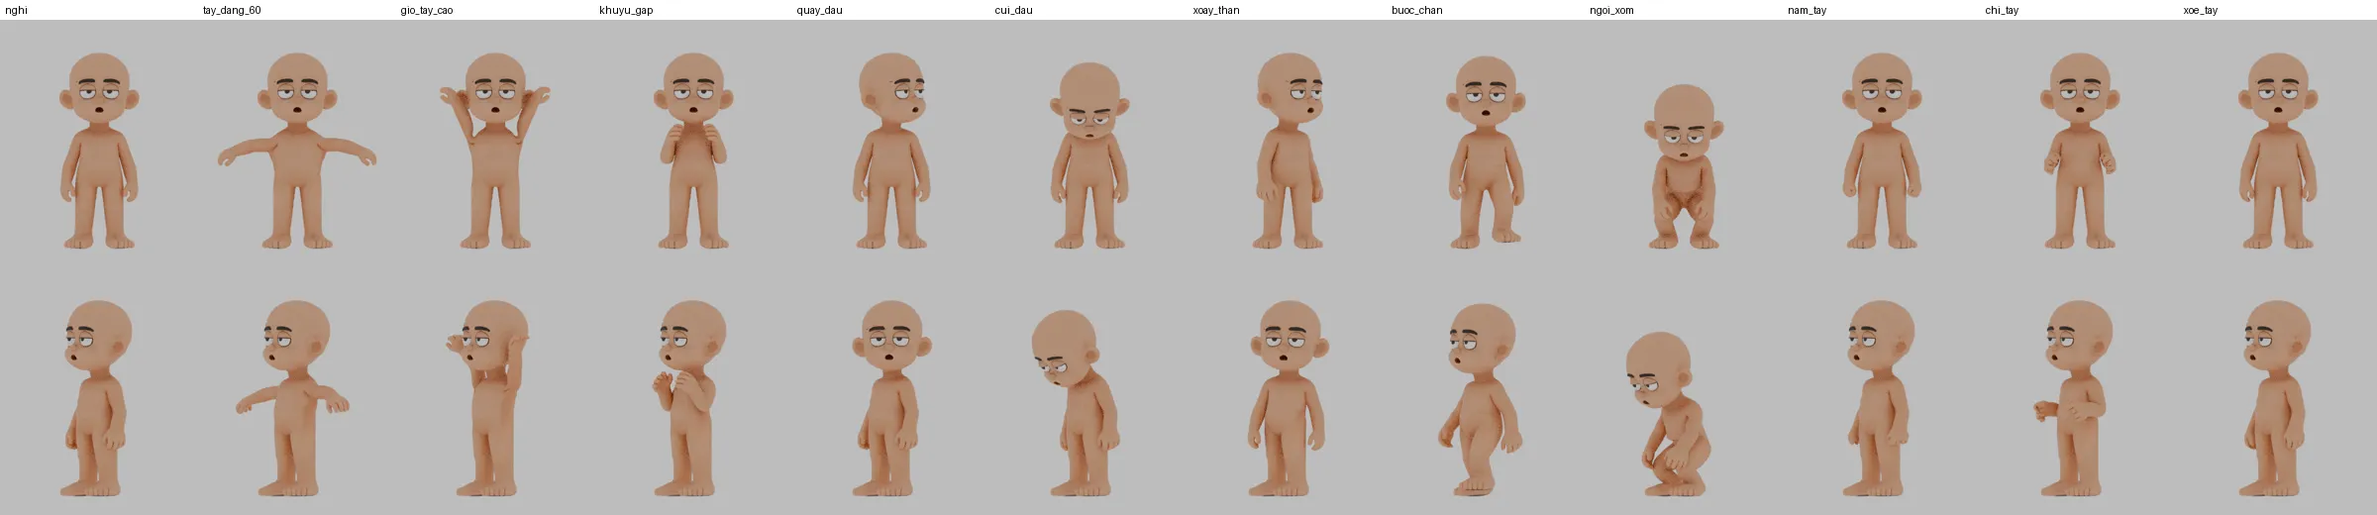
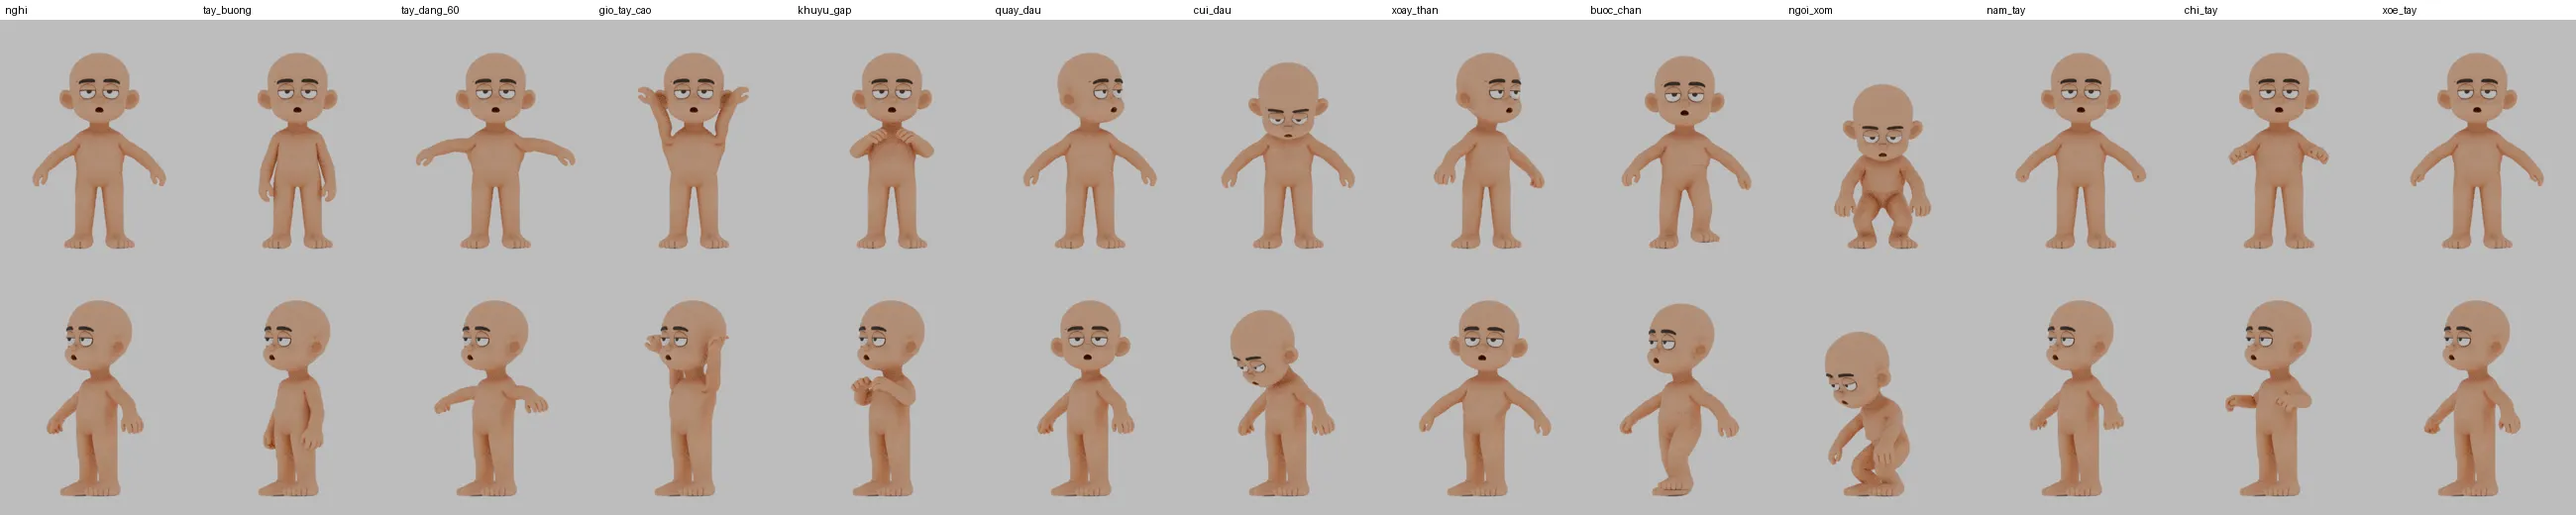
feat(nhan-vat-goc): dáng nghỉ chữ A 35° cho rig thử, giảm ép vai khi giơ tay
Claude-Session: https://claude.ai/code/session_015xtvRfLqUD2K9LfPtx8x7k

diff --git a/assets/nhan-vat-3d/nhan-vat-goc/rig-thu/rig_goc.py b/assets/nhan-vat-3d/nhan-vat-goc/rig-thu/rig_goc.py
@@ -39,6 +39,8 @@ ARM_CUT = (0.17, 0.86)  # loang từ đầu ngón tay, không qua |x|<0,17 hay z
 FINGER_Y = {'index': -0.113, 'middle': -0.061, 'ring': -0.022, 'pinky': 0.019}
 FINGER_SPLIT = (0.42, 0.32, 0.26)      # tỉ lệ chiều dài 3 đốt (gốc → đầu ngón)
 FINGER_CURL = {'index': (50, 70, 45), 'middle': (50, 70, 45), 'ring': (50, 70, 45), 'pinky': (50, 70, 45), 'thumb': (12, 30, 40)}   # độ gập khi nam = 1
+A_DEG = 0.0
+AP = np.eye(4)                          # khung dáng chữ A → khung tay buông (bên L); đơn vị nếu không chuyển dáng
 CH = {}                                 # tên ngón → 4 điểm (bên L): gốc, khớp 1, khớp 2, đầu ngón
 
 
@@ -245,10 +247,11 @@ def finger_weights(W, co, I, arm_reg, sigma=0.004, blend=0.007):
     (exp(-(d/sigma)^2)); trong một ngón chia cho 3 đốt theo vị trí dọc ngón (pha ±blend ở khớp); phía trên gốc ngón thuộc hand."""
     sm = lambda e0, e1, t: (lambda u: u * u * (3 - 2 * u))(np.clip((t - e0) / (e1 - e0), 0, 1))
     for k, sx in (('L', 1), ('R', -1)):
-        H = arm_reg & (sx * co[:, 0] > 0.17) & (co[:, 2] < 0.50)
-        P = co[H] * np.array([sx, 1, 1]); n = len(P); Wn = np.zeros((n, W.shape[1]), np.float32)
+        Uc = (co * np.array([sx, 1, 1])) @ AP[:3, :3].T + AP[:3, 3]      # về khung tay buông (đo ngón) nếu đã chuyển dáng chữ A
+        H = arm_reg & (sx * co[:, 0] > 0.0) & (Uc[:, 0] > 0.17) & (Uc[:, 2] < 0.50)
+        P = Uc[H]; n = len(P); Wn = np.zeros((n, W.shape[1]), np.float32)
         D = []; S0 = []; U = []
-        for nm, pts in CH.items():
+        for nm, pts in (CH0 or CH).items():
             Q = np.array([p[:] for p in pts]); seg = np.diff(Q, axis=0); ln = np.linalg.norm(seg, axis=1); cum = np.r_[0, np.cumsum(ln)]
             dmin = np.full(n, 9.0); u = np.zeros(n)
             for j in range(3):
@@ -264,12 +267,17 @@ def finger_weights(W, co, I, arm_reg, sigma=0.004, blend=0.007):
             for i in range(3):
                 Wn[:, I[f'{nm}{i + 1}.{k}']] += A[c] * inside * wb[i]
         Wn[:, I[f'hand.{k}']] += 1 - Wn.sum(1)
-        al = sm(0.50, 0.475, co[H, 2])[:, None]
+        al = sm(0.50, 0.475, P[:, 2])[:, None]
         W[H] = (1 - al) * W[H] + al * Wn
     return W
 
 
+CH0 = {}              # đường tâm ngón ở khung tay buông (dùng cho trọng số ngón sau khi đổi dáng chữ A)
+ARM_FIXED = None      # vùng tay tính trên lưới tay buông, dùng lại sau khi đổi dáng chữ A (chỉ số đỉnh giữ nguyên)
+
+
 def arm_region(co, ea, eb):
+    if ARM_FIXED is not None: return ARM_FIXED.copy()
     x, z = co[:, 0], co[:, 2]; keep = ~((np.abs(x) < ARM_CUT[0]) | (z > ARM_CUT[1])); A = np.zeros(len(co), bool)
     for s in (1, -1):
         A[np.argmin(np.where((s * x > 0.2) & (z > 0.3), z, 9))] = True
@@ -340,8 +348,9 @@ def clean_weights(body):
 # ---- dáng thử ----
 POSES = {
     'nghi': {},
-    'tay_dang_60': {'upper_arm.L': ('Y', 0, 'Z', 60)},
-    'gio_tay_cao': {'upper_arm.L': ('Y', 0, 'Z', 140)},
+    'tay_buong': 'down',
+    'tay_dang_60': 'abd60',
+    'gio_tay_cao': 'abd140',
     'khuyu_gap': {'upper_arm.L': ('X', 30), 'forearm.L': ('X', 100), 'upper_arm.R': ('X', 30), 'forearm.R': ('X', 100)},
     'quay_dau': {'head': ('Y', 35), 'neck': ('Y', 10)},
     'cui_dau': {'head': ('X', 20), 'neck': ('X', 10), 'spine2': ('X', 10)},
@@ -373,7 +382,10 @@ def apply_pose(arm, name):
     for k in 'LR':
         for pr in ('nam',) + tuple(FINGER_PROPS.values()): pb[f'hand.{k}'][pr] = 0.0
     spec = POSES[name]
-    if spec == 'fist':
+    if spec in ('down', 'abd60', 'abd140'):       # góc so với tay buông thẳng (trừ góc dáng nghỉ chữ A)
+        g = {'down': 0, 'abd60': 60, 'abd140': 140}[spec] - A_DEG
+        set_rot(pb, 'upper_arm.L', ('Z', g)); set_rot(pb, 'upper_arm.R', ('Z', -g))
+    elif spec == 'fist':
         for k in 'LR': pb[f'hand.{k}']['nam'] = 1.0
     elif spec == 'point':
         for k in 'LR':
@@ -432,24 +444,71 @@ def render_sheet(sc, arm, out_dir):
     return files
 
 
+def rig_once(sc, body):
+    proxy = bpy.data.objects.new('proxy_w', body.data.copy()); sc.collection.objects.link(proxy)   # bản thưa cho bone heat
+    dm = proxy.modifiers.new('Dec', 'DECIMATE'); dm.ratio = 0.125
+    bpy.context.view_layer.objects.active = proxy; bpy.ops.object.select_all(action='DESELECT'); proxy.select_set(True)
+    bpy.ops.object.modifier_apply(modifier=dm.name)
+    arm = build_armature(sc)
+    bind(sc, arm, body, proxy)
+    bpy.data.objects.remove(proxy, do_unlink=True)
+    return arm
+
+
+def to_a_pose(sc, body, arm, deg):
+    """Đổi dáng nghỉ: dang hai tay `deg`°, nướng vào lưới, làm mượt Taubin vùng nách–vai, rồi dựng lại rig từ dáng mới.
+    Mốc khớp tay (J) và đường tâm ngón (CH) được xoay theo; AP giữ phép ngược để đo bàn tay trong khung cũ."""
+    global AP
+    pb = arm.pose.bones
+    for k, sx in (('L', 1), ('R', -1)): pb[f'upper_arm.{k}'].rotation_euler = (0, 0, math.radians(sx * deg))
+    body.modifiers['CorrectiveSmooth'].show_viewport = False; bpy.context.view_layer.update()
+    T = np.array(arm.matrix_world @ pb['upper_arm.L'].matrix @ pb['upper_arm.L'].bone.matrix_local.inverted())
+    dg = bpy.context.evaluated_depsgraph_get(); ev = body.evaluated_get(dg); m2 = ev.to_mesh()
+    P = np.zeros(len(m2.vertices) * 3); m2.vertices.foreach_get('co', P); ev.to_mesh_clear(); P = P.reshape(-1, 3)
+    co0 = mesh_co(body)
+    global ARM_FIXED; e0, e1 = edges_np(body.data); ARM_FIXED = arm_region(co0, e0, e1)
+    # gỡ rig cũ
+    body.parent = None
+    for m in list(body.modifiers): body.modifiers.remove(m)
+    body.vertex_groups.clear()
+    bpy.data.objects.remove(arm, do_unlink=True)
+    # làm mượt vùng nách–vai trên lưới mới (Taubin: không co thể tích)
+    me = body.data; nv = len(me.vertices); ea, eb = edges_np(me); dn = np.bincount(np.concatenate([ea, eb]), minlength=nv).clip(1)[:, None]
+    x, z = np.abs(co0[:, 0]), co0[:, 2]
+    f = np.clip(np.minimum.reduce([(x - 0.07) / 0.04, (0.30 - x) / 0.04, (z - 0.60) / 0.06, (0.97 - z) / 0.04]), 0, 1)
+    R = f > 0
+    for it in range(40):
+        for lam in (0.5, -0.53):
+            acc = np.stack([np.bincount(ea, P[eb, j], nv) + np.bincount(eb, P[ea, j], nv) for j in range(3)], 1) / dn
+            P[R] += (lam * f[R])[:, None] * (acc[R] - P[R])
+    me.vertices.foreach_set('co', P.ravel()); me.update()
+    print(f'  dáng chữ A {deg:.0f}°: nướng lưới, làm mượt {int(R.sum())} đỉnh nách–vai')
+    # xoay mốc tay và ngón theo
+    Tm = Matrix([list(r) for r in T])
+    for n in ('elbow', 'wrist', 'hand_end'): J[n] = tuple(Tm @ Vector(J[n]))
+    CH0.update({nm: list(P) for nm, P in CH.items()})
+    for nm in CH: CH[nm] = [Tm @ p for p in CH[nm]]
+    AP = np.linalg.inv(T)
+    return rig_once(sc, body)
+
+
 def main():
     argv = sys.argv[sys.argv.index('--') + 1:] if '--' in sys.argv else sys.argv[1:]
     ap = argparse.ArgumentParser(); ap.add_argument('--out', required=True); ap.add_argument('--anh'); ap.add_argument('--src', default=SRC)
+    ap.add_argument('--chu-a', type=float, default=0.0, help='dang tay (độ) để làm dáng nghỉ mới trước khi rig; 0 = giữ tay buông')
     a = ap.parse_args(argv)
     bpy.ops.wm.open_mainfile(filepath=os.path.abspath(a.src)); sc = bpy.context.scene
     if bpy.context.object and bpy.context.object.mode != 'OBJECT': bpy.ops.object.mode_set(mode='OBJECT')
     body = bpy.data.objects['model_LOD0']
     for o in list(sc.objects):
         if o.type == 'MESH' and o is not body: bpy.data.objects.remove(o, do_unlink=True)
-    proxy = bpy.data.objects.new('proxy_w', body.data.copy()); sc.collection.objects.link(proxy)   # bản thưa cho bone heat
-    dm = proxy.modifiers.new('Dec', 'DECIMATE'); dm.ratio = 0.125
-    bpy.context.view_layer.objects.active = proxy; bpy.ops.object.select_all(action='DESELECT'); proxy.select_set(True)
-    bpy.ops.object.modifier_apply(modifier=dm.name)
     bco = mesh_co(body); bea, beb = edges_np(body.data); measure_fingers(bco, arm_region(bco, bea, beb))
-    proxy.hide_set(False); body.hide_set(False); body.hide_render = False
-    arm = build_armature(sc)
-    bind(sc, arm, body, proxy)
-    bpy.data.objects.remove(proxy, do_unlink=True)
+    body.hide_set(False); body.hide_render = False
+    arm = rig_once(sc, body)
+    if a.chu_a:
+        arm = to_a_pose(sc, body, arm, a.chu_a)
+        sc['dang_nghi'] = f'chữ A, tay dang {a.chu_a:.0f}°'
+        global A_DEG; A_DEG = a.chu_a
     for c in list(bpy.data.collections):
         if c.name.startswith('LOD') and not c.objects: bpy.data.collections.remove(c)
     arm.users_collection[0].objects.unlink(arm); body.users_collection[0].objects.link(arm)

diff --git a/assets/nhan-vat-3d/nhan-vat-goc/rig-thu/README.md b/assets/nhan-vat-3d/nhan-vat-goc/rig-thu/README.md
@@ -12,7 +12,7 @@ Chạy trong thư mục này, mỗi lệnh khoảng 1–2 phút. File `.blend` t
 
 ```powershell
 D:/blender/blender.exe -b --factory-startup --python dau_troc.py -- --out nhan-vat-goc-troc.blend
-D:/blender/blender.exe -b --factory-startup --python rig_goc.py -- --src nhan-vat-goc-troc.blend --out nhan-vat-goc-rig-thu.blend --anh xem-thu
+D:/blender/blender.exe -b --factory-startup --python rig_goc.py -- --src nhan-vat-goc-troc.blend --out nhan-vat-goc-rig-thu.blend --chu-a 35 --anh xem-thu
 ```
 
 `dau_troc.py` tạo lưới nền đầu trọc ([ảnh](dau-troc.webp)). Script bỏ tóc theo màu texture, rồi ghép hộp sọ theo khuôn `../nguon/dau-troc-tham-chieu.fbx`, căn bằng ICP lệch trung vị 5,5 mm. Đường nối được làm mượt và có dải pha màu da (thuộc tính đỉnh `pha_da`). Nốt ruồi vẫn giữ. Trên lông mày trái còn một gờ rất nhỏ. Thiếu `--src` thì `rig_goc.py` rig bản gốc còn tóc.
@@ -22,7 +22,8 @@ D:/blender/blender.exe -b --factory-startup --python rig_goc.py -- --src nhan-va
 - Armature `Goc_Rig`: mặt hướng −Y, bên trái nhân vật là +X và mang đuôi `.L`. Xương thân, tay, chân như bản trước. IK chân dùng `ik_foot`/`pole_knee`. Tay chạy FK, muốn IK thì đặt `ik` = 1 trên `ik_hand`.
 - **Ngón tay** (bone collection `Ngon`): `index/middle/ring/pinky/thumb` 1–3, mỗi ngón ba đốt. Đường tâm từng ngón được đo tự động trên lưới. Trên `hand.L/R` có thuộc tính `nam` (nắm cả bàn tay) và `nam_tro`, `nam_giua`, `nam_ap`, `nam_ut`, `nam_cai` (nắm từng ngón), mỗi thuộc tính từ 0 đến 1. Ví dụ chỉ tay: đặt bốn ngón kia = 1. [Ảnh bàn tay](ban-tay.webp), từ trái sang: nghỉ, nắm, nửa nắm, chỉ, xòe.
 - **Vai**: xương phụ `vai_phu.L/R` theo 50% góc xoay của bắp tay, cộng thêm làm mượt rộng ở nách và vai. [Ảnh giơ tay 90° và 140°](vai-gio-tay.webp).
-- Dáng nghỉ lệch tối đa 0,13 mm so với lưới nền.
+- **Dáng nghỉ chữ A** (`--chu-a 35`): script rig một lượt ở dáng tay buông, dang hai tay 35° rồi cố định dáng đó vào lưới. Sau đó làm mượt Taubin vùng nách–vai và rig lại từ dáng mới. Vùng tay và đường tâm ngón vẫn lấy theo lưới tay buông. Các dáng thử tính góc so với tay buông: `tay_buong` = 0°, `tay_dang_60`, `gio_tay_cao` = 140°. Bỏ `--chu-a` thì rig ở dáng tay buông như bản trước.
+- Lưới sau khi gắn rig khớp với lưới nền chữ A, lệch tối đa 0,13 mm.
 
 ## Cách gán trọng số
 
@@ -37,17 +38,20 @@ Mốc khớp được đo bằng lát cắt lưới LOD0 và ghi trong bảng `J
 
 Bảng dưới đếm số cạnh lưới bị kéo dài hơn 2 lần so với dáng nghỉ. Số này dùng để so các lần chạy, không thay cho việc xem ảnh.
 
-| Dáng | Cạnh giãn > 2× | Tối đa | Bản trước |
+| Dáng | Cạnh giãn > 2× (chữ A 35°) | Tối đa | Tay buông, bản trước |
 |---|---:|---:|---|
-| dạng tay 60° | 190 | 4,08× | 801 / 4,81× |
-| giơ tay cao 140° | 2.326 | 7,06× | 3.421 / 8,33× |
-| gập khuỷu | 15 | 2,33× | 36 / 2,71× |
-| quay đầu | 55 | 5,11× | 119 / 2,98× |
-| ngồi xổm | 1.235 | 6,12× | 1.794 / 7,75× |
-| nắm tay | 4.336 | 12,07× | — |
-| xòe tay | 375 | 3,81× | — |
+| tay buông (về 0°) | 0 | 1,25× | — |
+| dạng tay 60° | 0 | 1,50× | 190 / 4,08× |
+| giơ tay cao 140° | 509 | 2,72× | 2.326 / 7,06× |
+| gập khuỷu | 0 | 1,77× | 15 / 2,33× |
+| quay đầu | 54 | 5,11× | 55 / 5,11× |
+| ngồi xổm | 819 | 3,64× | 1.235 / 6,12× |
+| nắm tay | 4.306 | 12,08× | 4.336 / 12,07× |
+| xòe tay | 339 | 5,21× | 375 / 3,81× |
 
-- **Vai:** giơ tay 90° đã gọn. Giơ tay 140° vẫn còn nếp ở hõm nách, và trên sườn thân lộ ra một đường kẻ dọc ở vùng nằm khuất dưới cánh tay khi đứng nghỉ. Trong lưới gốc, cánh tay dính vào thân từ z ≈ 0,70 trở lên, đây là giới hạn của lưới chứ không riêng của rig. Đã thử thêm shape key sửa dáng tự tính (làm mượt Taubin rồi quy về dáng nghỉ): độ dời tới 30 mm nhưng ảnh chỉ đỡ chút ít, nên đã bỏ. Xương đòn tự nâng cũng đã thử và bỏ.
+Số đo của bản chữ A tính so với dáng nghỉ chữ A, nên không so ngang được hoàn toàn với bản trước. Các ảnh dáng thử vẫn chụp đúng góc so với tay buông.
+
+- **Vai (bản chữ A):** giơ tay 90° và 140° không còn bị ép hay gập ở mặt trên và sau vai. Ngay hõm nách còn một nếp nhỏ, khi người thật giơ tay cũng có nếp ở đây. Ghi chú bản tay buông trước đó: giơ tay 90° đã gọn. Giơ tay 140° vẫn còn nếp ở hõm nách, và trên sườn thân lộ ra một đường kẻ dọc ở vùng nằm khuất dưới cánh tay khi đứng nghỉ. Trong lưới gốc, cánh tay dính vào thân từ z ≈ 0,70 trở lên, đây là giới hạn của lưới chứ không riêng của rig. Đã thử thêm shape key sửa dáng tự tính (làm mượt Taubin rồi quy về dáng nghỉ): độ dời tới 30 mm nhưng ảnh chỉ đỡ chút ít, nên đã bỏ. Xương đòn tự nâng cũng đã thử và bỏ.
 - **Nắm tay:** độ giãn cao nằm ở kẽ ngón, vì các ngón trong lưới gốc dính liền nhau. Nhìn ảnh thì nắm tay gọn. Mu bàn tay còn một vệt ngang mờ ở dải pha giữa vùng cổ tay và vùng ngón.
 - **Quay đầu:** giá trị tối đa tăng ở vài cạnh vá gần gáy. Số cạnh vượt ngưỡng vẫn giảm.
 
